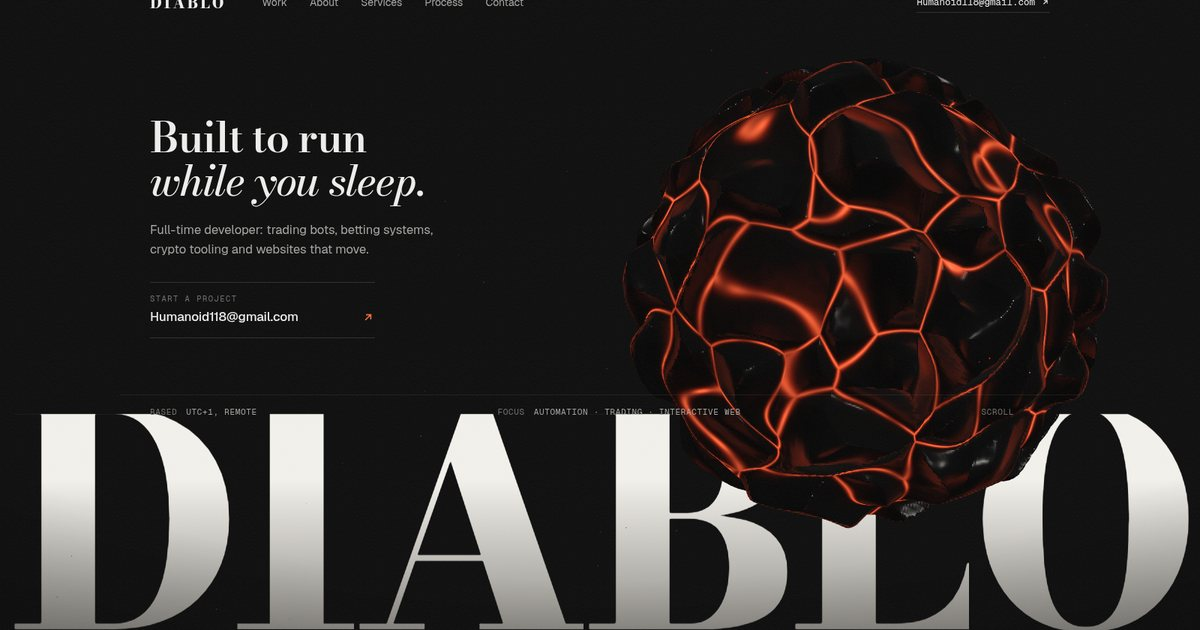
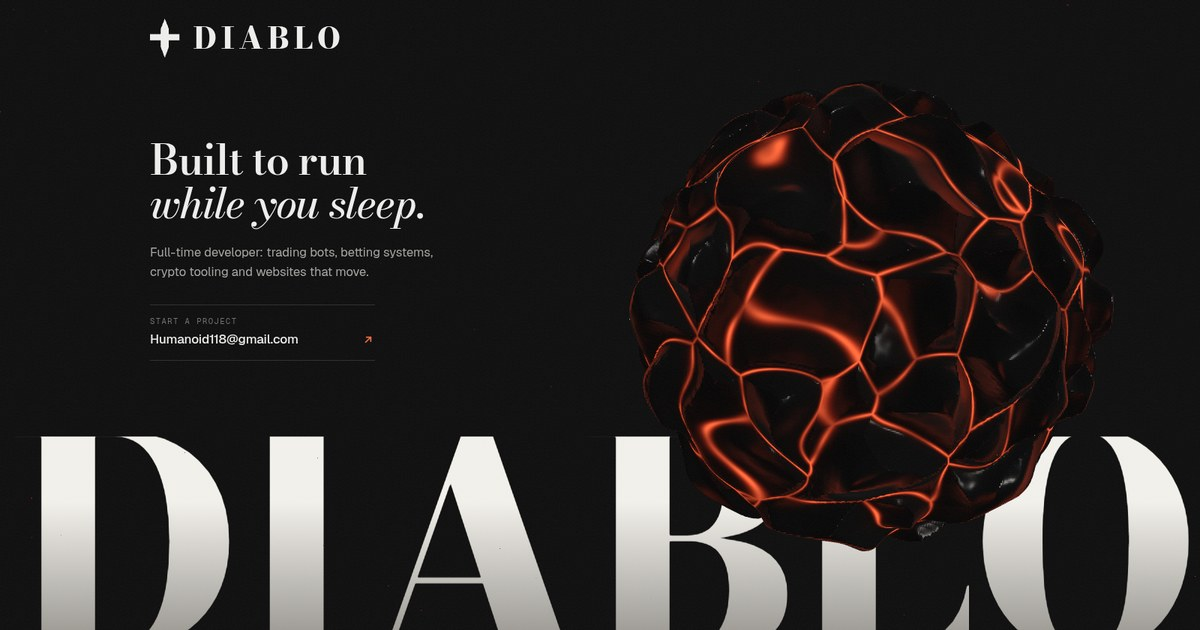
Extruded obsidian mark in the contact scene, new og image

diff --git a/src/scene.js b/src/scene.js
@@ -4,7 +4,7 @@
 // and heat in the fissures that opens up as you scroll. Ember dust drifts around it.
 import {
   WebGLRenderer, Scene, PerspectiveCamera, SphereGeometry, Mesh, ShaderMaterial, Color,
-  BufferGeometry, BufferAttribute, Points, AdditiveBlending, Vector3, Group,
+  BufferGeometry, BufferAttribute, Points, AdditiveBlending, Vector3, Group, Shape, ExtrudeGeometry,
 } from 'three';
 
 const NOISE = /* glsl */ `
@@ -77,9 +77,20 @@ void main(){
   gl_Position=projectionMatrix*viewMatrix*wp;
 }`;
 
+// the extruded brand mark: same material, object-space coordinates instead of a unit sphere
+const MARK_VERT = /* glsl */ `
+varying vec3 vObj; varying vec3 vW; varying vec3 vN;
+void main(){
+  vObj=position*1.0;
+  vec4 wp=modelMatrix*vec4(position,1.);
+  vW=wp.xyz;
+  vN=normalize(mat3(modelMatrix)*normal);
+  gl_Position=projectionMatrix*viewMatrix*wp;
+}`;
+
 const ROCK_FRAG = /* glsl */ `
 precision highp float;
-uniform float uTime,uHeat,uBump; uniform vec3 uLight,uEmber;
+uniform float uTime,uHeat,uBump,uWobble; uniform vec3 uLight,uEmber;
 varying vec3 vObj; varying vec3 vW; varying vec3 vN;
 ${NOISE}
 void main(){
@@ -89,6 +100,7 @@ void main(){
   float h=smoothstep(0.,.6,d)*1.1+snoise(vObj*11.)*.012;
   vec3 dpx=dFdx(vW),dpy=dFdy(vW);
   vec3 N=normalize(vN);
+  N=normalize(N+uWobble*vec3(snoise(vObj*2.6),snoise(vObj*2.6+5.),snoise(vObj*2.6+9.)));
   vec3 V=normalize(cameraPosition-vW);
   // derivative bump
   vec3 r1=cross(dpy,N),r2=cross(N,dpx);float det=dot(dpx,r1);
@@ -142,20 +154,20 @@ void main(){float d=length(gl_PointCoord-.5);float a=smoothstep(.5,.05,d)*vA;gl_
 // Where the form sits on screen as you scroll. sx/sy are -1..1 screen fractions, size is
 // the diameter as a fraction of viewport height. One table for wide screens, one for portrait.
 const KEYS_WIDE = {
-  hero:     { sx: .42,  sy: .06,  size: .66, heat: 1.0,  bump: 1.0 },
-  work:     { sx: .86,  sy: .20,  size: .34, heat: .45,  bump: 1.0 },
-  about:    { sx: -.78, sy: -.05, size: .40, heat: .6,   bump: 1.0 },
-  services: { sx: .86,  sy: -.15, size: .36, heat: .5,   bump: 1.0 },
-  process:  { sx: -.82, sy: .10,  size: .34, heat: .7,   bump: 1.0 },
-  contact:  { sx: .62,  sy: -.04, size: .80, heat: 1.45, bump: 1.0 },
+  hero:     { sx: .42,  sy: .06,  size: .66, heat: 1.0,  bump: 1.0, msize: 0,   msx: .56, msy: -.02, mheat: 1 },
+  work:     { sx: .86,  sy: .20,  size: .34, heat: .45,  bump: 1.0, msize: 0,   msx: .56, msy: -.02, mheat: 1 },
+  about:    { sx: -.78, sy: -.05, size: .40, heat: .6,   bump: 1.0, msize: 0,   msx: .56, msy: -.02, mheat: 1 },
+  services: { sx: .86,  sy: -.15, size: .36, heat: .5,   bump: 1.0, msize: 0,   msx: .56, msy: -.02, mheat: 1 },
+  process:  { sx: -.82, sy: .10,  size: .34, heat: .7,   bump: 1.0, msize: 0,   msx: .56, msy: -.02, mheat: 1 },
+  contact:  { sx: .95,  sy: .55,  size: .001,heat: 1.0,  bump: 1.0, msize: .58, msx: .56, msy: -.02, mheat: 1.1 },
 };
 const KEYS_TALL = {
-  hero:     { sx: 0,    sy: .52,  size: .34, heat: 1.0,  bump: 1.0 },
-  work:     { sx: .9,   sy: .55,  size: .22, heat: .4,   bump: 1.0 },
-  about:    { sx: .9,   sy: .55,  size: .22, heat: .5,   bump: 1.0 },
-  services: { sx: .9,   sy: .55,  size: .22, heat: .5,   bump: 1.0 },
-  process:  { sx: .9,   sy: .55,  size: .22, heat: .6,   bump: 1.0 },
-  contact:  { sx: 0,    sy: .70,  size: .27, heat: 1.45, bump: 1.0 },
+  hero:     { sx: 0,    sy: .52,  size: .34, heat: 1.0,  bump: 1.0, msize: 0,   msx: 0, msy: .66, mheat: 1 },
+  work:     { sx: .9,   sy: .55,  size: .22, heat: .4,   bump: 1.0, msize: 0,   msx: 0, msy: .66, mheat: 1 },
+  about:    { sx: .9,   sy: .55,  size: .22, heat: .5,   bump: 1.0, msize: 0,   msx: 0, msy: .66, mheat: 1 },
+  services: { sx: .9,   sy: .55,  size: .22, heat: .5,   bump: 1.0, msize: 0,   msx: 0, msy: .66, mheat: 1 },
+  process:  { sx: .9,   sy: .55,  size: .22, heat: .6,   bump: 1.0, msize: 0,   msx: 0, msy: .66, mheat: 1 },
+  contact:  { sx: .9,   sy: .55,  size: .001,heat: 1.0,  bump: 1.0, msize: .30, msx: .30, msy: .32, mheat: .7 },
 };
 const ORDER = ['hero', 'work', 'about', 'services', 'process', 'contact'];
 const lerp = (a, b, t) => a + (b - a) * t;
@@ -187,11 +199,29 @@ export function initScene(canvas, opts = {}) {
   const geo = new SphereGeometry(1, mobile ? 120 : 220, mobile ? 90 : 160);
   const uni = {
     uTime: { value: 0 }, uHeat: { value: 0 }, uBump: { value: .5 },
-    uLight: { value: new Vector3(-.5, .7, .8) }, uEmber: { value: ember },
+    uLight: { value: new Vector3(-.5, .7, .8) }, uEmber: { value: ember }, uWobble: { value: 0 },
   };
   const rock = new Mesh(geo, new ShaderMaterial({ vertexShader: ROCK_VERT, fragmentShader: ROCK_FRAG, uniforms: uni }));
   rock.frustumCulled = false;
   group.add(rock);
+
+  // brand mark: the logo polygon extruded and bevelled, in the same obsidian + magma material
+  const MARK_PTS = [[512,48],[608,288],[608,416],[864,416],[864,560],[608,560],[608,720],[512,975],[416,720],[416,560],[160,560],[160,416],[416,416],[416,288]];
+  const shp = new Shape();
+  MARK_PTS.forEach(([x, y], i) => { const px_ = (x - 512) / 463.5, py_ = -(y - 511.5) / 463.5; i ? shp.lineTo(px_, py_) : shp.moveTo(px_, py_); });
+  shp.closePath();
+  const mgeo = new ExtrudeGeometry(shp, { depth: .34, bevelEnabled: true, bevelThickness: .035, bevelSize: .03, bevelSegments: 3, curveSegments: 1 });
+  mgeo.translate(0, 0, -.17);
+  const muni = {
+    uTime: uni.uTime, uHeat: { value: 0 }, uBump: { value: .22 }, uWobble: { value: .09 },
+    uLight: uni.uLight, uEmber: uni.uEmber,
+  };
+  const markMesh = new Mesh(mgeo, new ShaderMaterial({ vertexShader: MARK_VERT, fragmentShader: ROCK_FRAG, uniforms: muni }));
+  markMesh.frustumCulled = false;
+  const markGroup = new Group();
+  markGroup.add(markMesh);
+  markGroup.visible = false;
+  scene.add(markGroup);
 
   // ember dust
   const N = mobile ? 140 : 320;
@@ -223,10 +253,12 @@ export function initScene(canvas, opts = {}) {
   const readScroll = () => {
     scrollY_ = window.scrollY;
     const probe = scrollY_ + innerHeight * .5;
-    let a = anchors[0], b = anchors[0], t = 0;
-    for (let i = 0; i < anchors.length; i++) if (probe >= anchors[i].c) { a = anchors[i]; b = anchors[Math.min(i + 1, anchors.length - 1)]; }
-    if (probe < anchors[0].c) a = b = anchors[0];
-    else if (a !== b) t = ss(Math.min(1, Math.max(0, (probe - a.c) / (b.c - a.c))));
+    const maxProbe = document.documentElement.scrollHeight - innerHeight * .5;
+    const cs = anchors.map((x, i) => i === anchors.length - 1 ? Math.min(x.c, maxProbe - 8) : x.c);  // last key must be reachable at page bottom
+    let a = anchors[0], b = anchors[0], t = 0, ai = 0;
+    for (let i = 0; i < anchors.length; i++) if (probe >= cs[i]) { ai = i; a = anchors[i]; b = anchors[Math.min(i + 1, anchors.length - 1)]; }
+    if (probe < cs[0]) a = b = anchors[0];
+    else if (a !== b) t = ss(Math.min(1, Math.max(0, (probe - cs[ai]) / (cs[ai + 1] - cs[ai]))));
     const ka = KEYS[a.id], kb = KEYS[b.id];
     for (const k in ka) tgt[k] = lerp(ka[k], kb[k], t);
   };
@@ -274,6 +306,14 @@ export function initScene(canvas, opts = {}) {
     group.rotation.y = travelRot + scrollY_ * .0011 + mx * .35;
     group.rotation.x = .25 + scrollY_ * .0004 - my * .2;
     group.rotation.z = -.12;
+    const mRad = Math.max(0, cur.msize) * halfH * .5;     // mark height = msize * viewport height
+    markGroup.visible = mRad > .002;
+    if (markGroup.visible) {
+      markGroup.scale.setScalar(mRad * 2);
+      markGroup.position.set(cur.msx * halfW + mx * .05, cur.msy * halfH + my * .03, 0);
+      markGroup.rotation.set(Math.max(-.1, Math.min(.1, -my * .1)) + .03, Math.max(-.22, Math.min(.22, Math.sin(time * .35) * .13 + mx * .16)), 0);
+      muni.uHeat.value = cur.mheat * intro;
+    }
     uni.uHeat.value = cur.heat * intro;
     uni.uBump.value = .22 * cur.bump;
     duni.uAmt.value = (.5 + cur.heat * .5) * intro;
